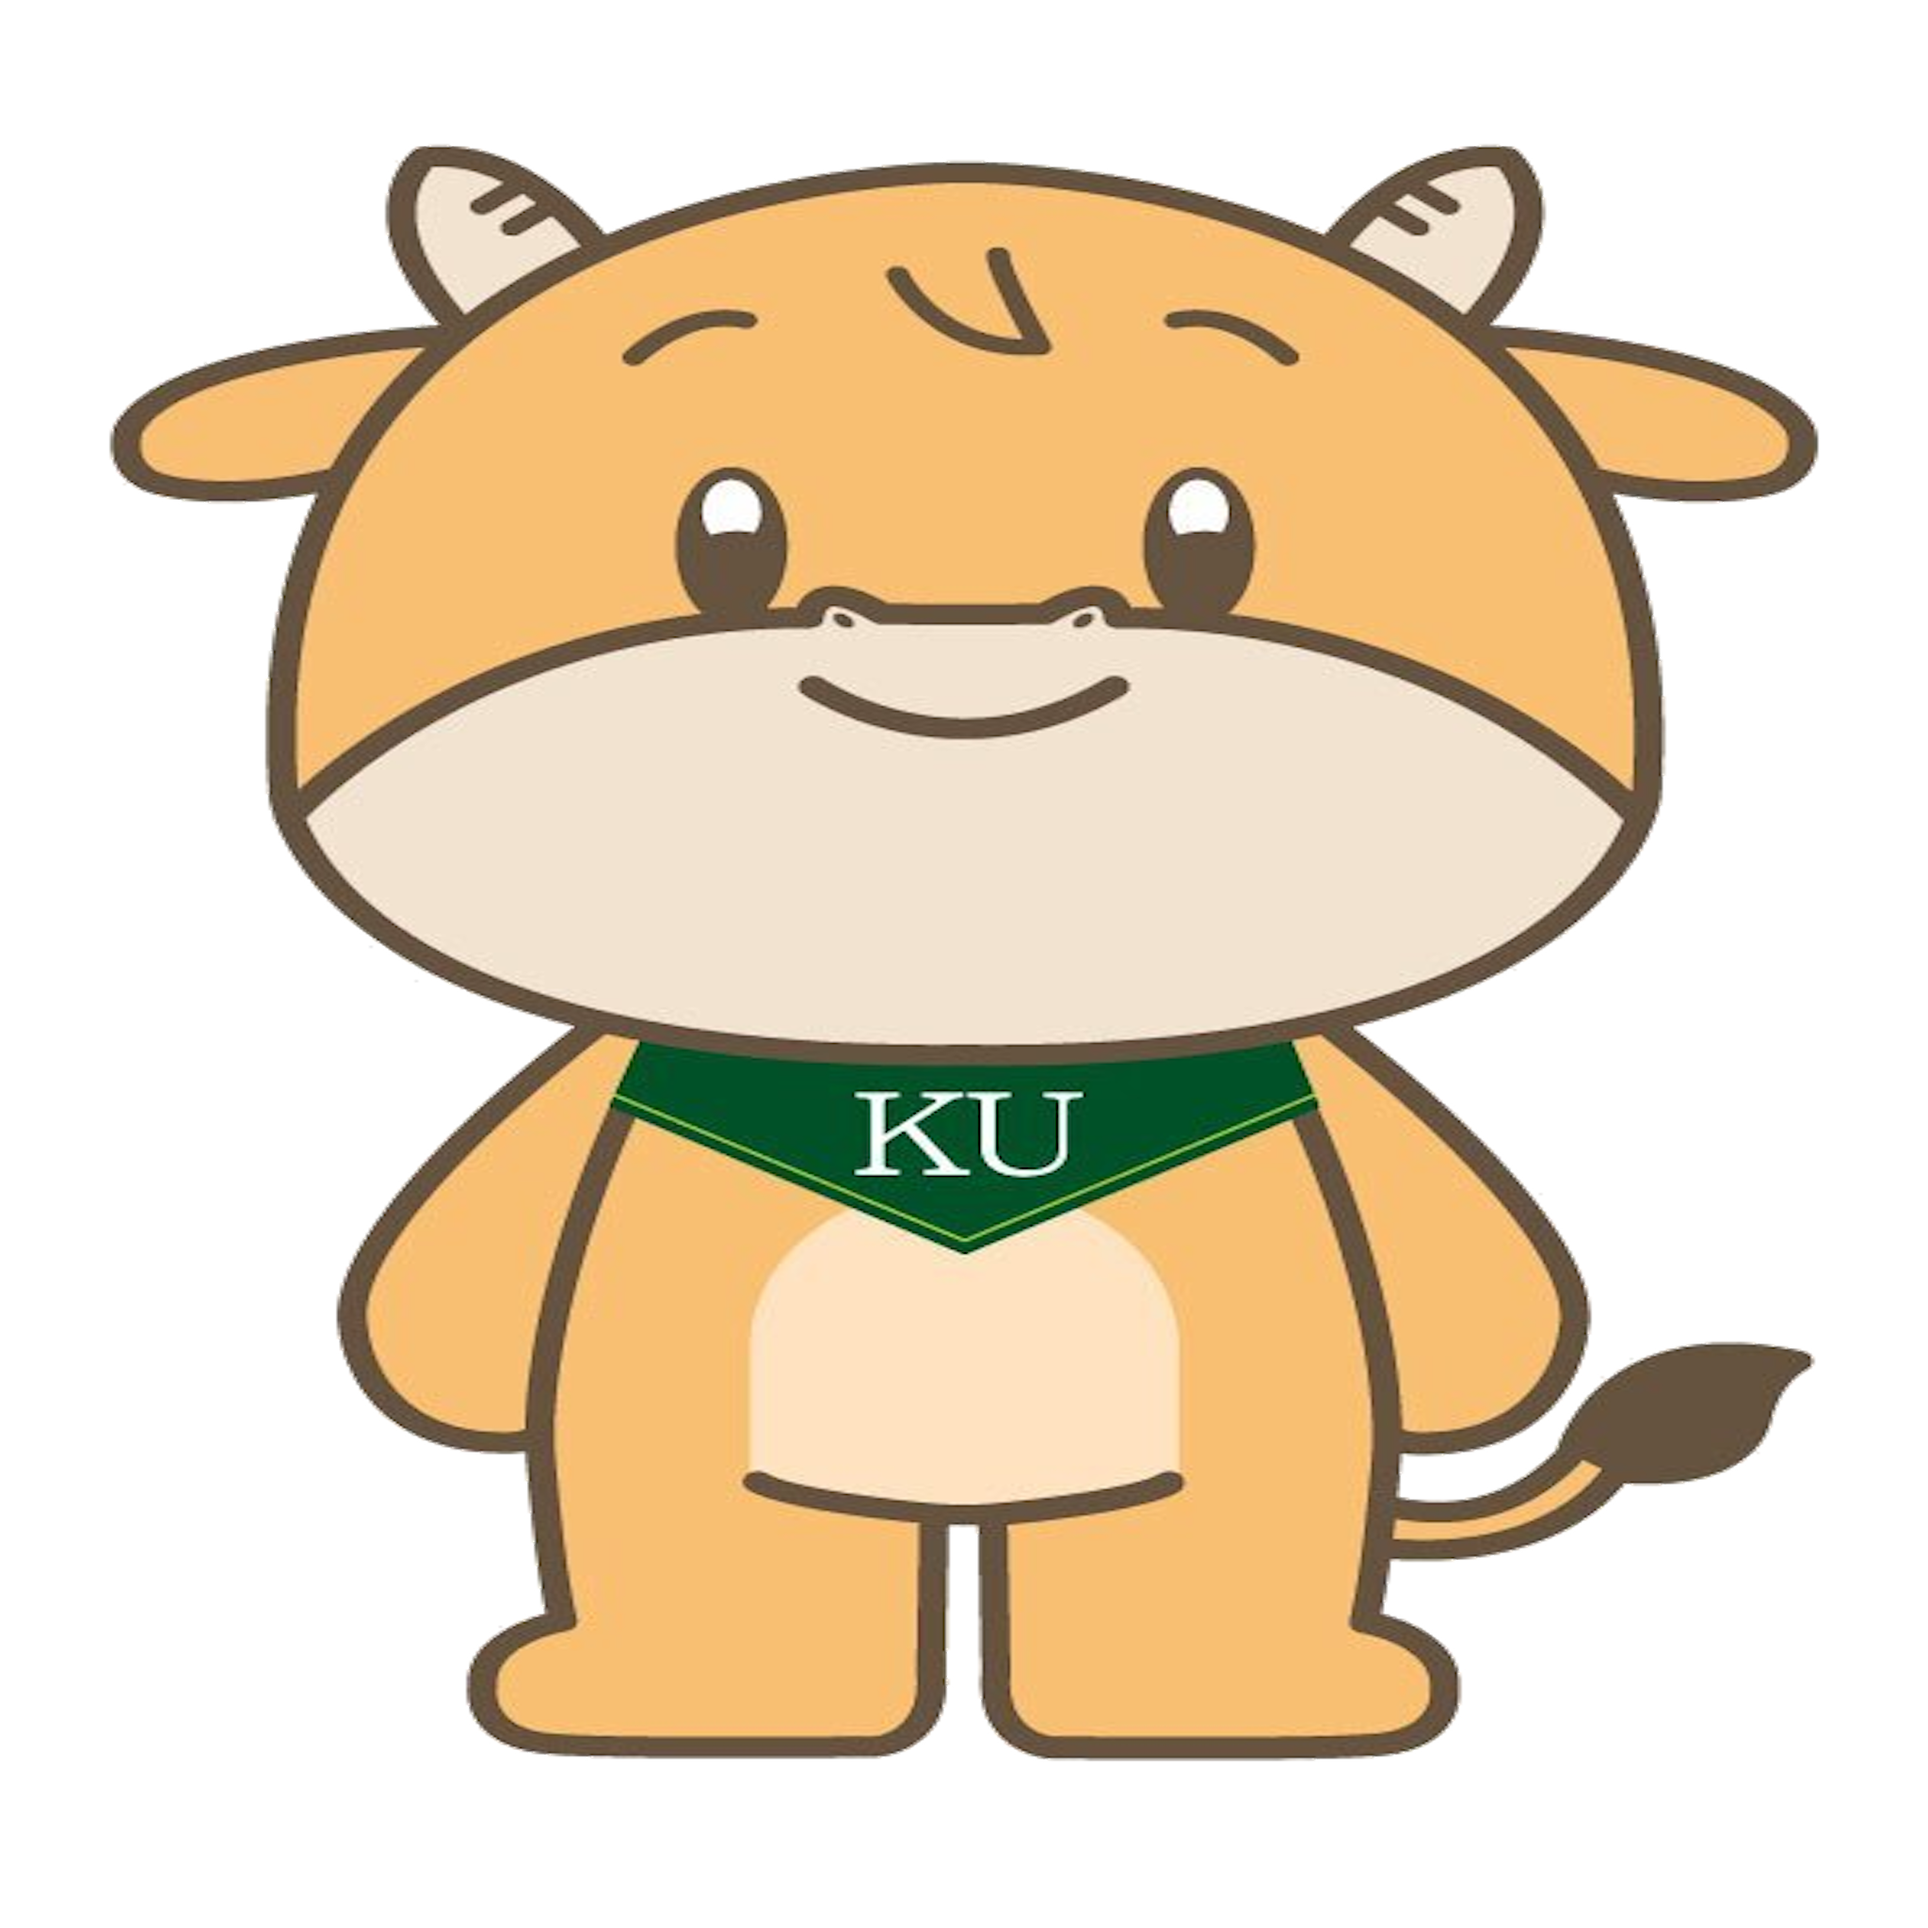
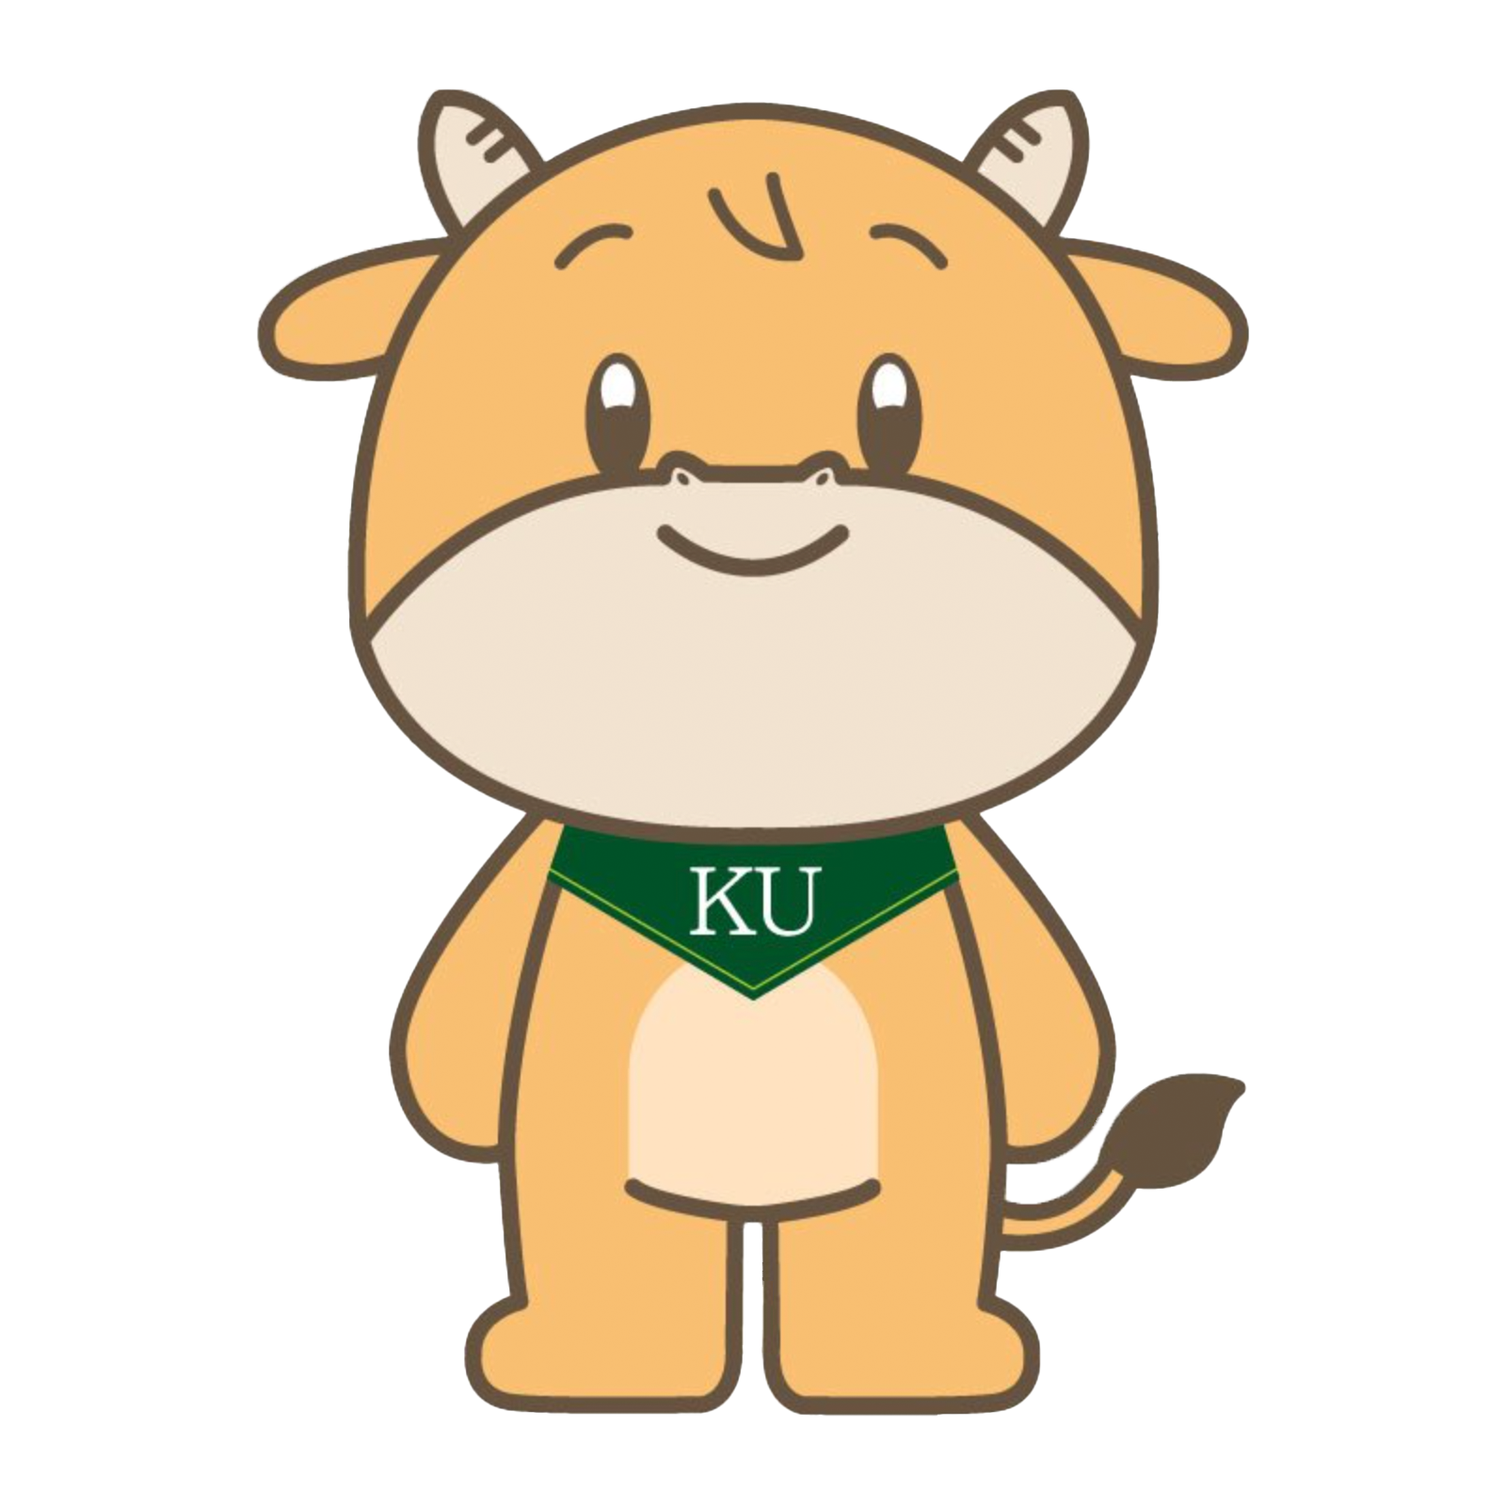
fix: 이미지 쿠로 변경

Changed region(s): [[0.0312, 0.0625, 0.9688, 0.9375]]

diff --git a/src/App.svelte b/src/App.svelte
@@ -1,5 +1,6 @@
 <script lang="ts">
   import devJeans from './assets/dev-jeans.png'
+  import devKu from './assets/dev-ku.png'
   import {fabric} from 'fabric'
   import {onMount} from 'svelte'
   import Toolbar from './components/Toolbar.svelte'
@@ -22,7 +23,7 @@
     $canvas.setHeight($width * $canvas.getZoom())
 
     fabric.Image.fromURL(
-      devJeans,
+      devKu,
       function (img) {
         img.scaleToWidth($width)
         img.scaleToWidth($width)
@@ -63,7 +64,7 @@
 </script>
 
 <main style={`width: ${width}`}>
-  <h1>~개발진스 짤 만들어 쓰기~</h1>
+  <h1>~데브쿠 짤 만들어 쓰기~</h1>
   <canvas id="canvas" width="2400" height="2400" style="border:1px solid #ccc" />
 </main>
 
